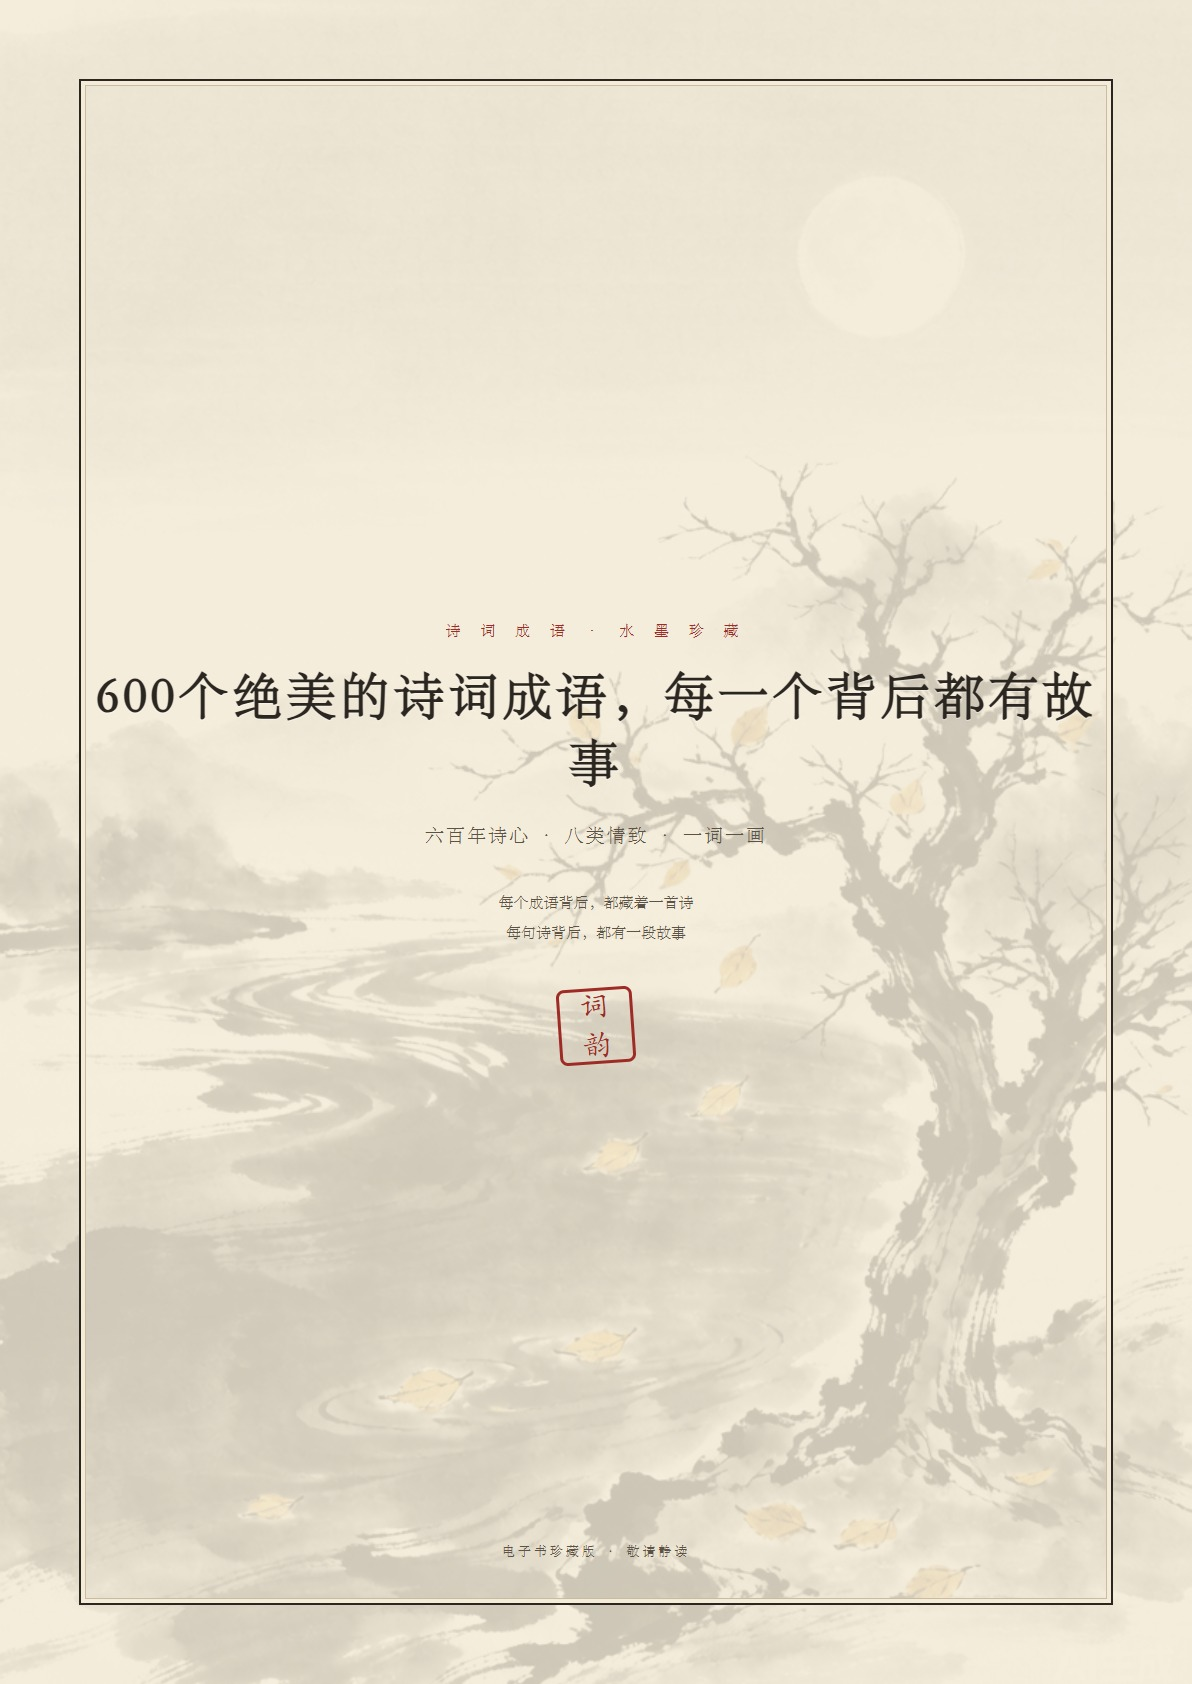
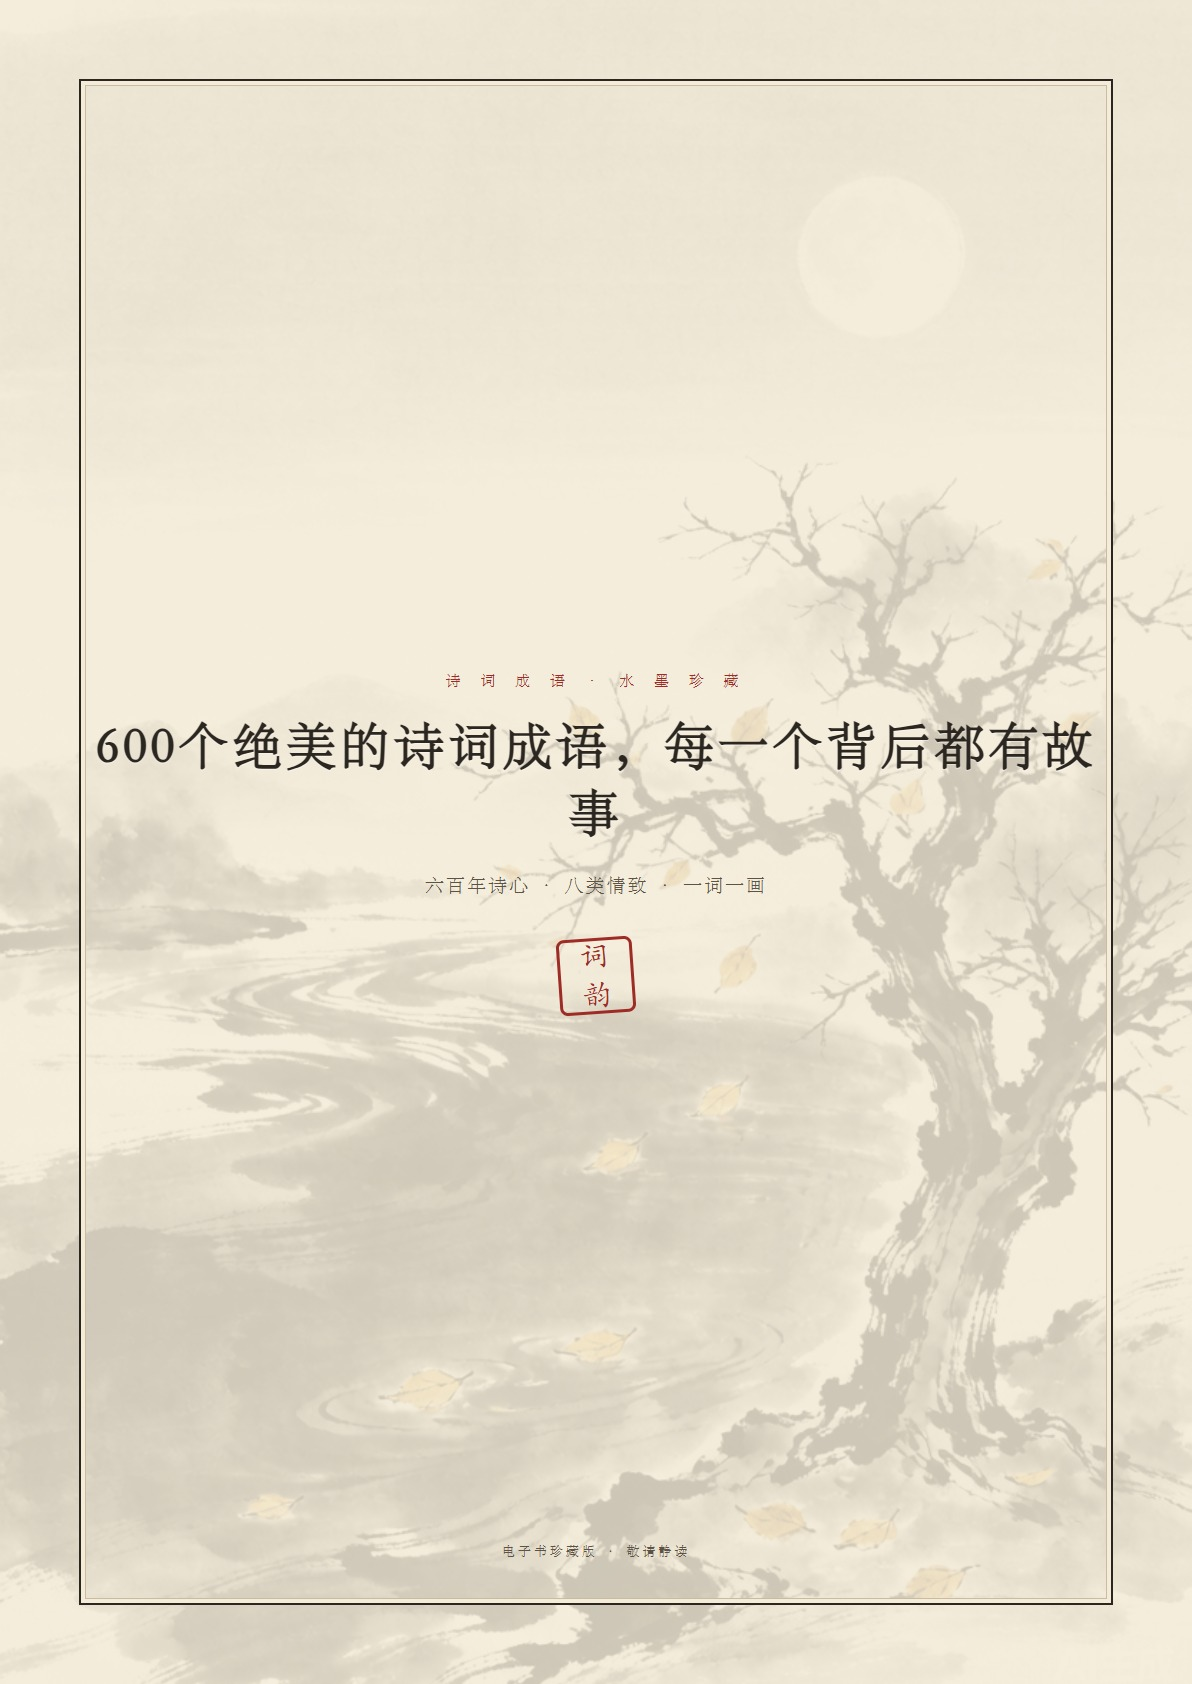
删除封面slogan两行，SW缓存升级v4

Changed region(s): [[0.0621, 0.4014, 0.5898, 0.6485], [0.6518, 0.4014, 0.9312, 0.4632], [0.5587, 0.4014, 0.6208, 0.4632]]

diff --git a/sw.js b/sw.js
@@ -1,5 +1,5 @@
 /* 每天进步一点点 — Service Worker：离线缓存，让网页版在手机上像原生 App 一样可用 */
-const CACHE = "mtbj-v3";
+const CACHE = "mtbj-v4";
 const CORE = [
   "./",
   "index.html",
